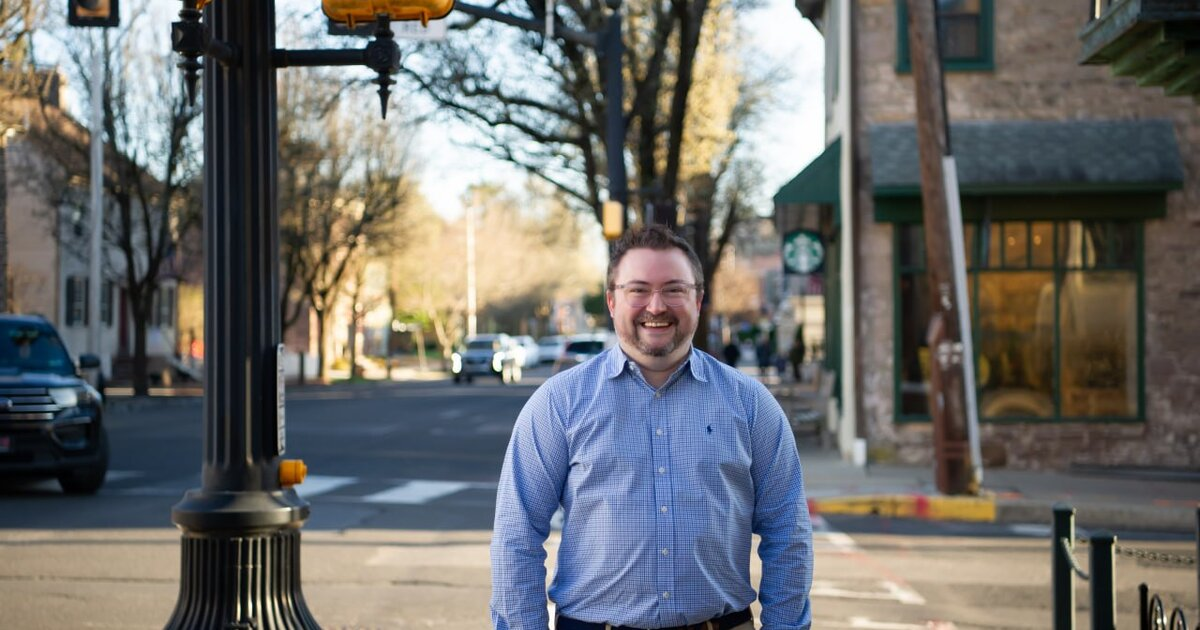
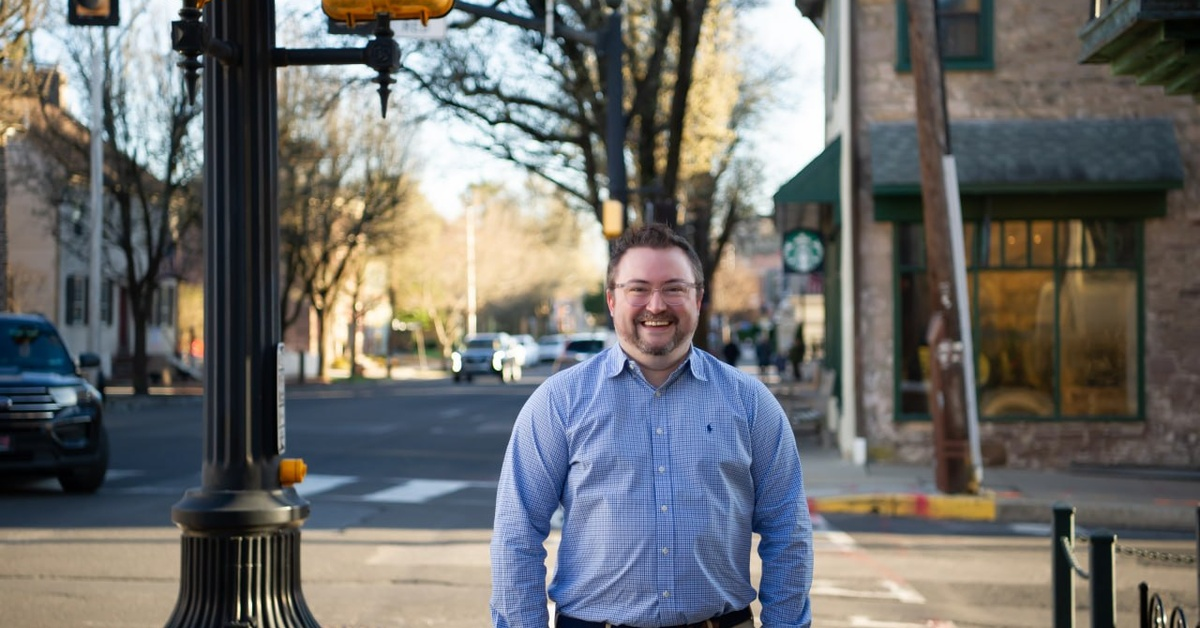
CRO: sharpen hero section, improve above-fold CTA, reduce form friction

diff --git a/first-time-homebuyer-bucks-county/index.html b/first-time-homebuyer-bucks-county/index.html
@@ -5,11 +5,11 @@
   <meta name="viewport" content="width=device-width, initial-scale=1.0" />
   <meta name="format-detection" content="telephone=no" />
   <link rel="icon" type="image/svg+xml" href="../favicon.svg" />
-  <title>First-Time Home Buyer Bucks County PA — Free Grants &amp; Programs | Matt Laurie</title>
-  <meta name="description" content="PA grants and down payment assistance programs could put $10,000+ toward your first home in Bucks County. Free consult with local expert Matt Laurie — see what you may qualify for." />
+  <title>First-Time Home Buyer Bucks County PA — Down Payment Programs | Matt Laurie</title>
+  <meta name="description" content="PA down payment and closing cost assistance programs may help cover thousands toward your first home in Bucks County. Free consult with local expert Matt Laurie — see what you may qualify for." />
   <!-- Open Graph / Social Sharing -->
-  <meta property="og:title" content="First-Time Home Buyer Bucks County PA — Free Grants & Programs | Matt Laurie" />
-  <meta property="og:description" content="PA grants and down payment assistance programs could put $10,000+ toward your first home in Bucks County. Free consult — see what you may qualify for." />
+  <meta property="og:title" content="First-Time Home Buyer Bucks County PA — Down Payment Programs | Matt Laurie" />
+  <meta property="og:description" content="PA down payment and closing cost assistance programs may help cover thousands toward your first home in Bucks County. Free consult — see what you may qualify for." />
   <meta property="og:image" content="https://mattlaurierealestate.com/matt-headshot.jpg" />
   <meta property="og:url" content="https://mattlaurierealestate.com/first-time-homebuyer-bucks-county/" />
   <meta property="og:type" content="website" />
@@ -93,7 +93,7 @@
       {
         "@type": "Question",
         "name": "Is now a bad time to buy with interest rates where they are?",
-        "acceptedAnswer": {"@type": "Answer", "text": "Rates matter, but they're not the whole picture. A $10K grant or lender credit saves you more upfront than waiting for rates to drop 0.5%. You can always refinance a rate — you can't refinance the price you paid if home values go up while you're waiting."}
+        "acceptedAnswer": {"@type": "Answer", "text": "Rates matter, but they're not the whole picture. Down payment assistance and lender credits may save you thousands upfront — often more than waiting for rates to drop. You can always refinance a rate — you can't refinance the price you paid if home values go up while you're waiting."}
       },
       {
         "@type": "Question",
@@ -272,6 +272,66 @@
     .footer-logos { display: flex; justify-content: center; align-items: center; gap: 16px; margin-bottom: 12px; flex-wrap: wrap; }
     .footer-logo-img { height: 30px; width: auto; opacity: 0.7; filter: brightness(0) invert(1); }
 
+    /* ── Sticky Mobile CTA ── */
+    .sticky-cta {
+      display: none;
+      position: fixed;
+      bottom: 0;
+      left: 0;
+      right: 0;
+      z-index: 999;
+      background: #B40101;
+      padding: 14px 20px;
+      text-align: center;
+      box-shadow: 0 -3px 16px rgba(0,0,0,0.18);
+    }
+    .sticky-cta a {
+      color: #fff;
+      font-size: 16px;
+      font-weight: 800;
+      text-decoration: none;
+      letter-spacing: 0.2px;
+    }
+    .sticky-cta .sticky-sub {
+      font-size: 11px;
+      color: rgba(255,255,255,0.75);
+      display: block;
+      margin-top: 2px;
+    }
+    @media (max-width: 700px) {
+      .sticky-cta { display: block; }
+      body { padding-bottom: 72px; }
+    }
+
+    /* ── Form Trust Bar ── */
+    .form-trust {
+      display: flex;
+      align-items: center;
+      gap: 12px;
+      padding: 14px 0 18px;
+      border-bottom: 1px solid #f0f0f0;
+      margin-bottom: 20px;
+    }
+    .form-trust img {
+      width: 52px;
+      height: 52px;
+      border-radius: 50%;
+      object-fit: cover;
+      object-position: center 40%;
+      border: 2px solid #B40101;
+      flex-shrink: 0;
+    }
+    .form-trust-text {
+      font-size: 12px;
+      color: #555;
+      line-height: 1.4;
+    }
+    .form-trust-text strong {
+      font-size: 13px;
+      color: #1a1a1a;
+      display: block;
+    }
+
     /* ── Mobile ── */
     @media (max-width: 600px) {
       .hero { padding: 48px 20px 44px; }
@@ -300,12 +360,13 @@
   <section class="hero">
     <div class="hero-overlay"></div>
     <div class="hero-tag">🏠 Free Consult · No Obligation · Bucks County &amp; Philadelphia</div>
-    <h1>Buying Your First Home in Bucks County?<br><span>There's Free Money You Don't Know About.</span></h1>
-    <p>PA grants, down payment assistance, and programs that could put <strong>$10,000+</strong> toward your first home — most buyers never find out these exist.</p>
+    <h1>Bucks County First-Time Buyers:<br><span>There's Down Payment Money You Don't Know About.</span></h1>
+    <p>PA has down payment and closing cost assistance programs that may cover thousands toward your first home — most buyers never find out these exist.</p>
     <a href="#lead-form-section" class="hero-cta" onclick="document.getElementById('lead-form-section').scrollIntoView({behavior:'smooth'}); return false;">
-      Find Out What Free Money You Qualify For →
+      Get My Free Program Match →
     </a>
-    <p class="hero-trust">No spam. No obligation. 10 years licensed. Local to Bucks County.</p>
+    <p class="hero-microcopy">Takes 30 seconds · Free · No pressure</p>
+    <p class="hero-trust">Matt Laurie · Keller Williams · 10 years licensed in PA · Local to Bucks County</p>
   </section>
 
   <!-- Who This Is For -->
@@ -361,12 +422,12 @@
       <div class="myth-card">
         <div class="myth-label">❌ The Myth</div>
         <h3>"Rates are too high right now."</h3>
-        <p>A <strong>$10K grant + lender credit</strong> saves you more than waiting for rates to drop 0.5%. You can always refinance a rate — you can't refinance a price you missed while waiting.</p>
+        <p>Down payment and closing cost assistance programs may save you thousands upfront — more than waiting for rates to drop. You can always refinance a rate — you can't refinance a price you missed while waiting.</p>
       </div>
       <div class="myth-card">
         <div class="myth-label">❌ The Myth</div>
         <h3>"I just don't have enough saved."</h3>
-        <p>Between PHFA assistance, the <strong>Bucks County Housing Group $10K grant</strong>, seller concessions, and lender credits — buyers close regularly with less than a first/last month's rent.</p>
+        <p>Between PHFA assistance, the Bucks County Housing Group assistance program, seller concessions, and lender credits — buyers close regularly with less than a first/last month's rent.</p>
       </div>
     </div>
   </section>
@@ -383,7 +444,7 @@
         <div class="program-item featured">
           <div class="prog-icon">🏦</div>
           <div class="prog-text">
-            <div class="prog-badge red">Up to $10,000</div>
+            <div class="prog-badge red">Down Payment + Closing Cost Help</div>
             <h3>PHFA Down Payment &amp; Closing Cost Assistance</h3>
             <p>PA Housing Finance Agency. One of the most useful programs in the state — income limits are higher than most people expect.</p>
           </div>
@@ -391,9 +452,9 @@
         <div class="program-item featured">
           <div class="prog-icon">🏡</div>
           <div class="prog-text">
-            <div class="prog-badge red">$10,000 Grant</div>
+            <div class="prog-badge red">Assistance Program</div>
             <h3>Bucks County Housing Group Grant</h3>
-            <p>Specifically for Bucks County buyers. $10K toward your purchase. Most buyers in Levittown, Bensalem, and Bristol have no idea this exists.</p>
+            <p>Specifically for Bucks County buyers. May help cover thousands toward your purchase. Most buyers in Levittown, Bensalem, and Bristol have no idea this exists.</p>
           </div>
         </div>
         <div class="program-item featured">
@@ -481,8 +542,18 @@
 
     <!-- Form -->
     <div class="form-card">
-      <h2>Find Out What Free Money You Qualify For</h2>
-      <p class="sub">Quick form — 30 seconds. Matt personally reviews and reaches out usually within a few hours.</p>
+      <h2>See What Buyer Programs You May Qualify For</h2>
+      <p class="sub">Takes 30 seconds. Matt personally reviews and reaches out within a few hours — no pressure, no commitment.</p>
+
+      <!-- Trust bar near form -->
+      <div class="form-trust">
+        <img src="../matt-headshot.jpg" alt="Matt Laurie, REALTOR®" />
+        <div class="form-trust-text">
+          <strong>Matt Laurie, REALTOR®</strong>
+          Keller Williams · Kim Rock Group<br>
+          10 years licensed in PA · Top 1% Greater Philadelphia
+        </div>
+      </div>
 
       <form id="lead-form" action="https://webhook.mattlaurierealestate.com/lead" method="POST">
         <input type="hidden" name="lead_type" value="buyer" />
@@ -511,16 +582,8 @@
           <option>Not sure yet — open to multiple areas</option>
         </select>
 
-        <label for="preapproved">Have you been pre-approved for a mortgage?</label>
-        <select id="preapproved" name="preapproved">
-          <option value="">— Select one —</option>
-          <option>Yes, I'm pre-approved</option>
-          <option>No, not yet</option>
-          <option>What's pre-approval?</option>
-        </select>
-
         <p style="font-size:0.78rem;color:#888;margin-bottom:12px;line-height:1.5;">By submitting this form, you consent to receive SMS text messages and emails from Matt Laurie regarding your inquiry. Message and data rates may apply. Reply STOP to opt out. View our <a href="/privacy-policy/" style="color:#c8a55a;">Privacy Policy</a>.</p>
-        <button type="submit" class="btn">Show Me My Options →</button>
+        <button type="submit" class="btn">Get My Free Program Match →</button>
         <div class="alt-cta" style="margin-top:12px;">Rather just talk? <a href="tel:2672255611">Call or text (267) 225-5611</a></div>
       </form>
 
@@ -659,7 +722,7 @@
     </div>
     <div class="faq-item">
       <div class="faq-q">Is now a bad time to buy with interest rates where they are? <span class="chevron">▾</span></div>
-      <div class="faq-a">Rates matter, but they're not the whole picture. A $10K grant or lender credit saves you more upfront than waiting for rates to drop 0.5%. And here's the thing — you can always refinance a rate. You can't refinance the price you paid if home values go up while you're waiting. Timing the market is a losing game.</div>
+      <div class="faq-a">Rates matter, but they're not the whole picture. Down payment and closing cost assistance programs may save you thousands upfront — often more than waiting for rates to drop. And here's the thing — you can always refinance a rate. You can't refinance the price you paid if home values go up while you're waiting. Timing the market is a losing game.</div>
     </div>
     <div class="faq-item">
       <div class="faq-q">What does it cost to work with a buyer's agent in PA? <span class="chevron">▾</span></div>
@@ -670,6 +733,14 @@
       <div class="faq-a">More than you'd think. Some programs define "first-time buyer" as anyone who hasn't owned a home in the past 3 years — so you may still qualify. Others are open to all buyers regardless of history. Either way, it's worth a quick conversation.</div>
     </div>
   </section>
+
+  <!-- Sticky Mobile CTA -->
+  <div class="sticky-cta" id="sticky-cta">
+    <a href="#lead-form-section" onclick="document.getElementById('lead-form-section').scrollIntoView({behavior:'smooth'}); return false;">
+      Get My Free Program Match →
+      <span class="sticky-sub">Free · No pressure · Matt responds within hours</span>
+    </a>
+  </div>
 
   <!-- Footer -->
   <footer>
